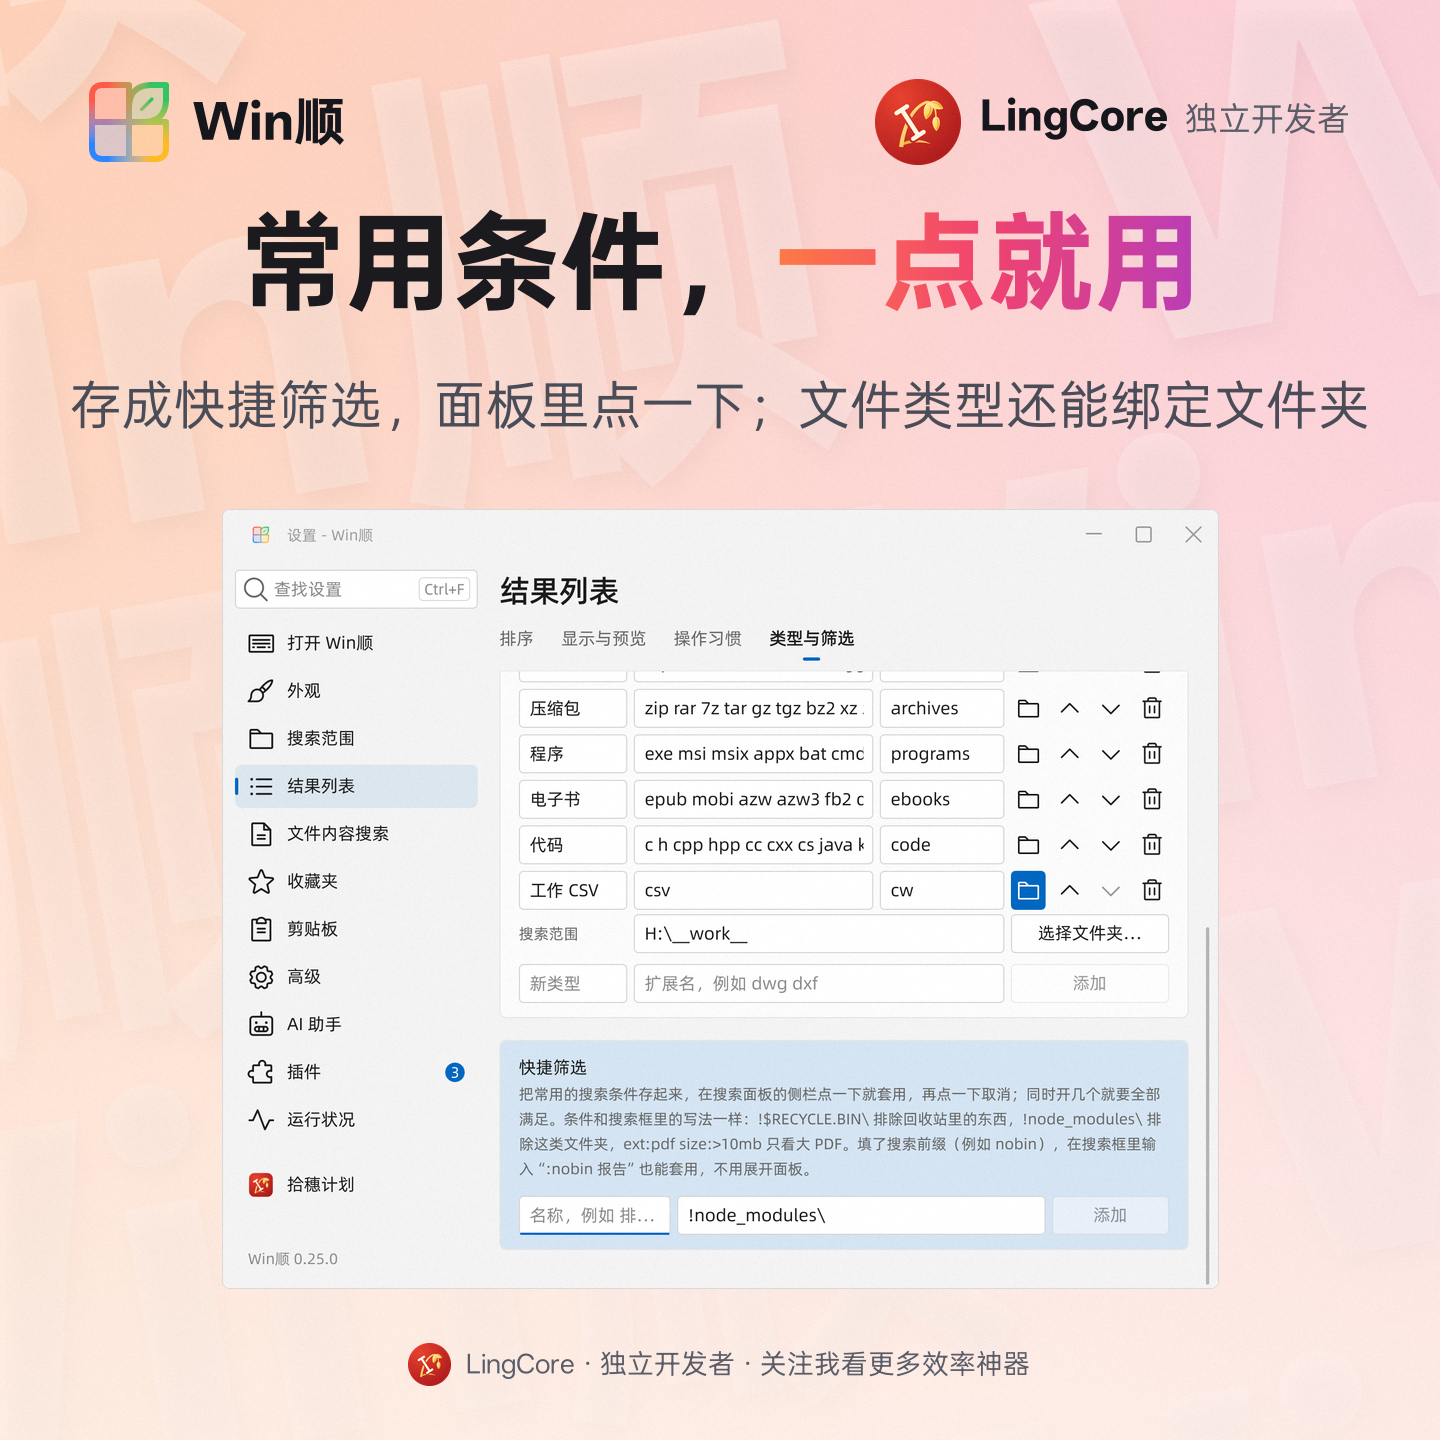
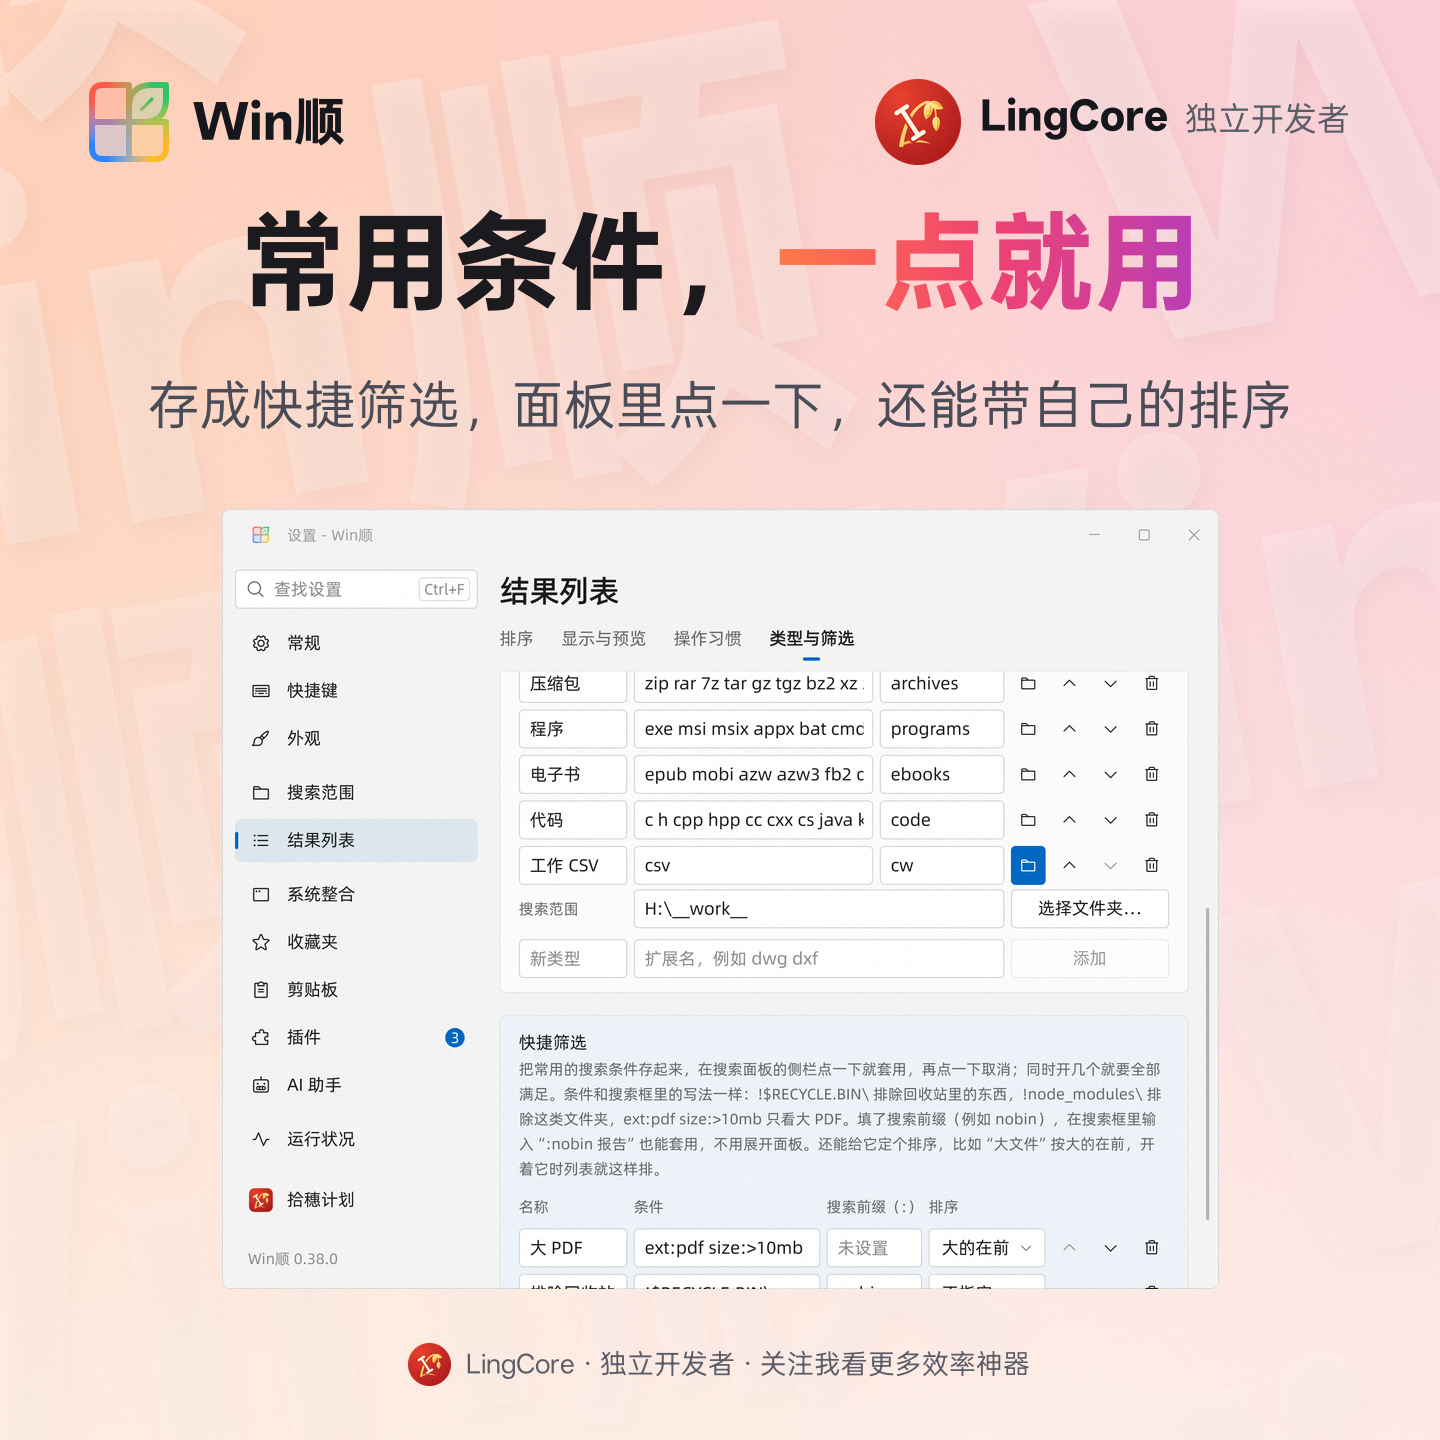
Posters for 0.38.0: folder menu columns, quick filters with a sort

diff --git a/tools/screenshots/release038.py b/tools/screenshots/release038.py
@@ -1,0 +1,141 @@
+"""Capture 0.38.0 production previews and export the two posters this release redoes.
+
+The raw pictures come from runs of the release build's WinShun.exe (copy its
+folder to C:\\WinShun first, so no Chinese path shows in a picture; an isolated
+temporary TEMP, --scale 2 --renderer d3d11, QT_FONT_DPI=96, see release027.py)
+into a fresh --work directory:
+
+  style       WinShun.exe --preview-results <work>/style --style-windows
+  file-types  WinShun.exe --preview-settings <work>/file-types --file-types
+
+  python tools/screenshots/release038.py --exe C:/WinShun/WinShun.exe --work build/release038-shots --capture-only
+  # look at <work>/style/style-foldermenu*.png and <work>/file-types/quick-filters.png, then
+  python tools/screenshots/release038.py --exe C:/WinShun/WinShun.exe --work build/release038-shots --export-only
+
+Two posters are redone. The folder menu: since #384 each column's width follows
+its names, so the columns are tighter; the preview grabs the menu and its first
+column as two windows (style-foldermenu-cascade.png), composed as in
+release033.py with MENU_WIDTH measured from the new picture (454 px, the
+width of style-foldermenu.png; the menu was 720 before #384). The quick
+filters: since #392 each filter row has a 排序 choice box after its 搜索前缀
+box (the probe sets the first filter's to 大的在前). The picture is
+file-types/quick-filters.png, which the probe grabs while its two filters
+exist (file-types-bottom.png, which 0.25.0 used, is grabbed after it removed
+them, so it shows no row); the page is scrolled to where the card stood
+without the rows, so the second row is cut by the window's lower edge. Without a poster, seen
+live only: text pins on the screen, settings found from the search box, partial
+copy in the clipboard preview, where the clipboard opens, the terminal choice,
+empty folder and file marks, and letters everywhere.
+"""
+import argparse
+import hashlib
+import json
+import os
+from pathlib import Path
+import shutil
+import subprocess
+import sys
+
+sys.dont_write_bytecode = True
+
+from PIL import Image
+
+import art
+import release017
+import shots
+
+MENU_WIDTH = 454  # style-foldermenu.png: the menu alone, at 2x (checked in columns())
+# The column's window starts 2 px (one logical px) inside the menu's and is drawn over it: its
+# hovered row's left inset (8 px, from x=452) equals its right one, so the cut is made there.
+OVERLAP = 2
+GAP = 6
+
+SOURCES = {
+    "foldermenu": ("L-foldermenu", "style/foldermenu-columns.png", None),
+    "quick-filters": ("L-quick-filters", "file-types/quick-filters.png", None),
+}
+
+POSTERS = (
+    ("foldermenu", "L-foldermenu", "资源管理器里，[双击空白处]", "文件夹一列列展开，列宽跟着名字收紧"),
+    ("quick-filters", "L-quick-filters", "常用条件，[一点就用]", "存成快捷筛选，面板里点一下，还能带自己的排序"),
+)
+
+KNOWN_WARNING = "Window frame: the window has a new native handle"
+
+RUNS = (
+    ("style", "--preview-results", ["--style-windows"]),
+    ("file-types", "--preview-settings", ["--file-types"]),
+)
+
+
+def capture(exe: Path, work: Path) -> None:
+    work.mkdir(parents=True)
+    temporary = work / "temp"
+    temporary.mkdir()
+    environment = {**os.environ, "TEMP": str(temporary), "TMP": str(temporary), "QT_FONT_DPI": "96",
+                   "PYTHONDONTWRITEBYTECODE": "1", "__COMPAT_LAYER": "RunAsInvoker"}
+    try:
+        for folder, flag, extra in RUNS:
+            print("Capturing", folder, flush=True)
+            result = subprocess.run([str(exe), flag, str(work / folder), "--scale", "2", "--renderer", "d3d11", *extra],
+                                    env=environment, timeout=600)
+            print(f"{folder}: exit {result.returncode} (2 = warnings, 4 = a check failed)", flush=True)
+            if result.returncode:
+                # The style windows are hooked again when a second window opens,
+                # and the preview logs that as a warning: accept exactly that.
+                lines = (work / folder / "preview.log").read_text(encoding="utf-8").splitlines()
+                warnings = [line for line in lines if line.startswith("WARNING:")]
+                if result.returncode != 2 or not warnings or any(KNOWN_WARNING not in line for line in warnings):
+                    result.check_returncode()
+                print(f"Retained {len(warnings)} known warnings in {folder}/preview.log", flush=True)
+    finally:
+        if temporary.resolve().parent != work.resolve():
+            raise ValueError("Temporary profile path escaped the capture directory")
+        shutil.rmtree(temporary)
+    (work / "capture.json").write_text(json.dumps({
+        "exe": str(exe), "sha256": hashlib.sha256(exe.read_bytes()).hexdigest(),
+        "renderer": "d3d11", "profiles": "isolated production previews", "scale": 2, "QT_FONT_DPI": 96,
+    }, indent=2), encoding="utf-8")
+
+
+def columns(work: Path) -> None:
+    alone = Image.open(work / "style/style-foldermenu.png")
+    if alone.width != MENU_WIDTH:
+        raise ValueError(f"the menu alone is {alone.width} px wide, not MENU_WIDTH {MENU_WIDTH}")
+    cascade = Image.open(work / "style/style-foldermenu-cascade.png").convert("RGBA")
+    alpha = cascade.getchannel("A")
+    if alpha.getpixel((MENU_WIDTH - 1, cascade.height - 1)) != 255 or alpha.getpixel((MENU_WIDTH, cascade.height - 1)) != 0:
+        raise ValueError("the menu does not end at MENU_WIDTH in the cascade picture")
+    menu = cascade.crop((0, 0, MENU_WIDTH, cascade.height))
+    column_box = alpha.crop((MENU_WIDTH, 0, cascade.width, cascade.height)).getbbox()
+    column = cascade.crop((MENU_WIDTH - OVERLAP, 0, cascade.width, column_box[3]))
+    menu, column = art.screen_piece(menu, radius=16), art.screen_piece(column, radius=16)
+    out = Image.new("RGBA", (menu.width + GAP + column.width, menu.height))
+    out.alpha_composite(menu, (0, 0))
+    out.alpha_composite(column, (menu.width + GAP, 0))
+    out.save(work / "style/foldermenu-columns.png")
+
+
+def main():
+    parser = argparse.ArgumentParser(description=__doc__, formatter_class=argparse.RawDescriptionHelpFormatter)
+    parser.add_argument("--exe", type=Path, required=True)
+    parser.add_argument("--work", type=Path, required=True)
+    modes = parser.add_mutually_exclusive_group(required=True)
+    modes.add_argument("--capture-only", action="store_true")
+    modes.add_argument("--export-only", action="store_true")
+    args = parser.parse_args()
+    work = args.work.resolve()
+    if args.capture_only:
+        if work.exists():
+            parser.error("--work must be a fresh directory")
+        capture(args.exe.resolve(strict=True), work)
+        return
+    columns(work)
+    release017.SOURCES = SOURCES
+    shots.README_ONLY = tuple(entry for entry in shots.README_ONLY if entry[0] not in dict(SOURCES)) + POSTERS
+    sys.argv = [sys.argv[0], "--exe", str(args.exe), "--work", str(args.work), "--export-only"]
+    release017.main()
+
+
+if __name__ == "__main__":
+    main()
